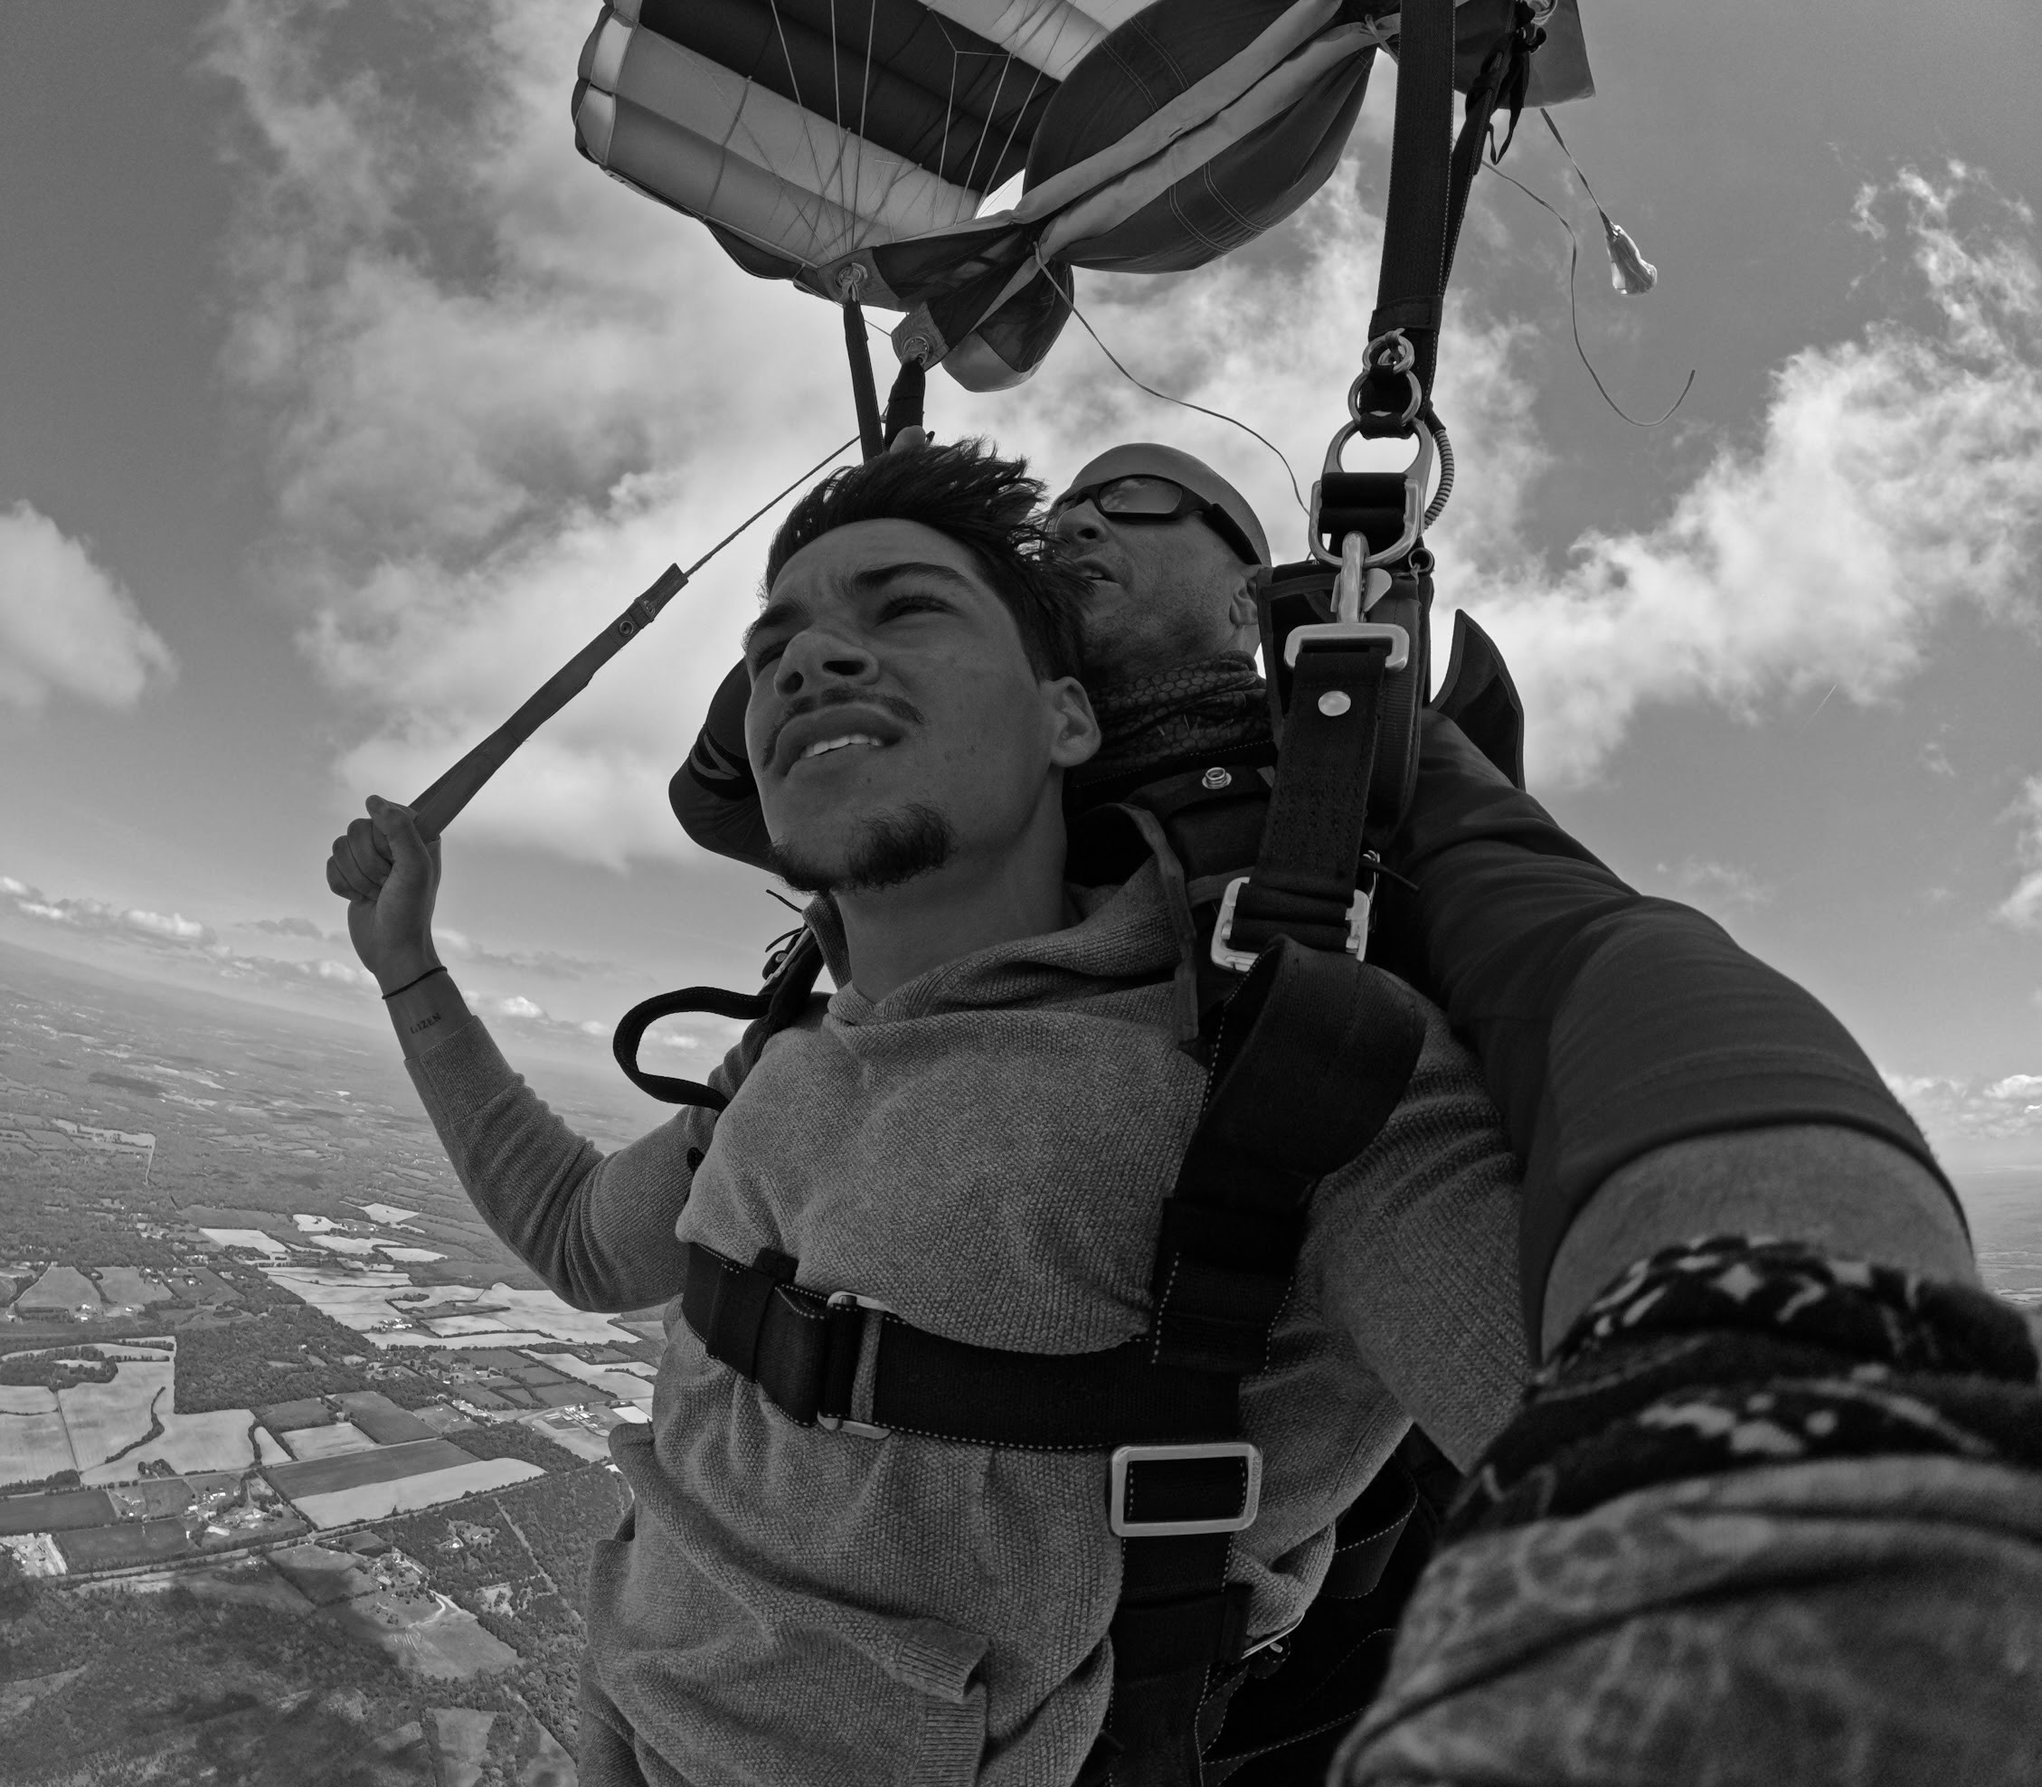
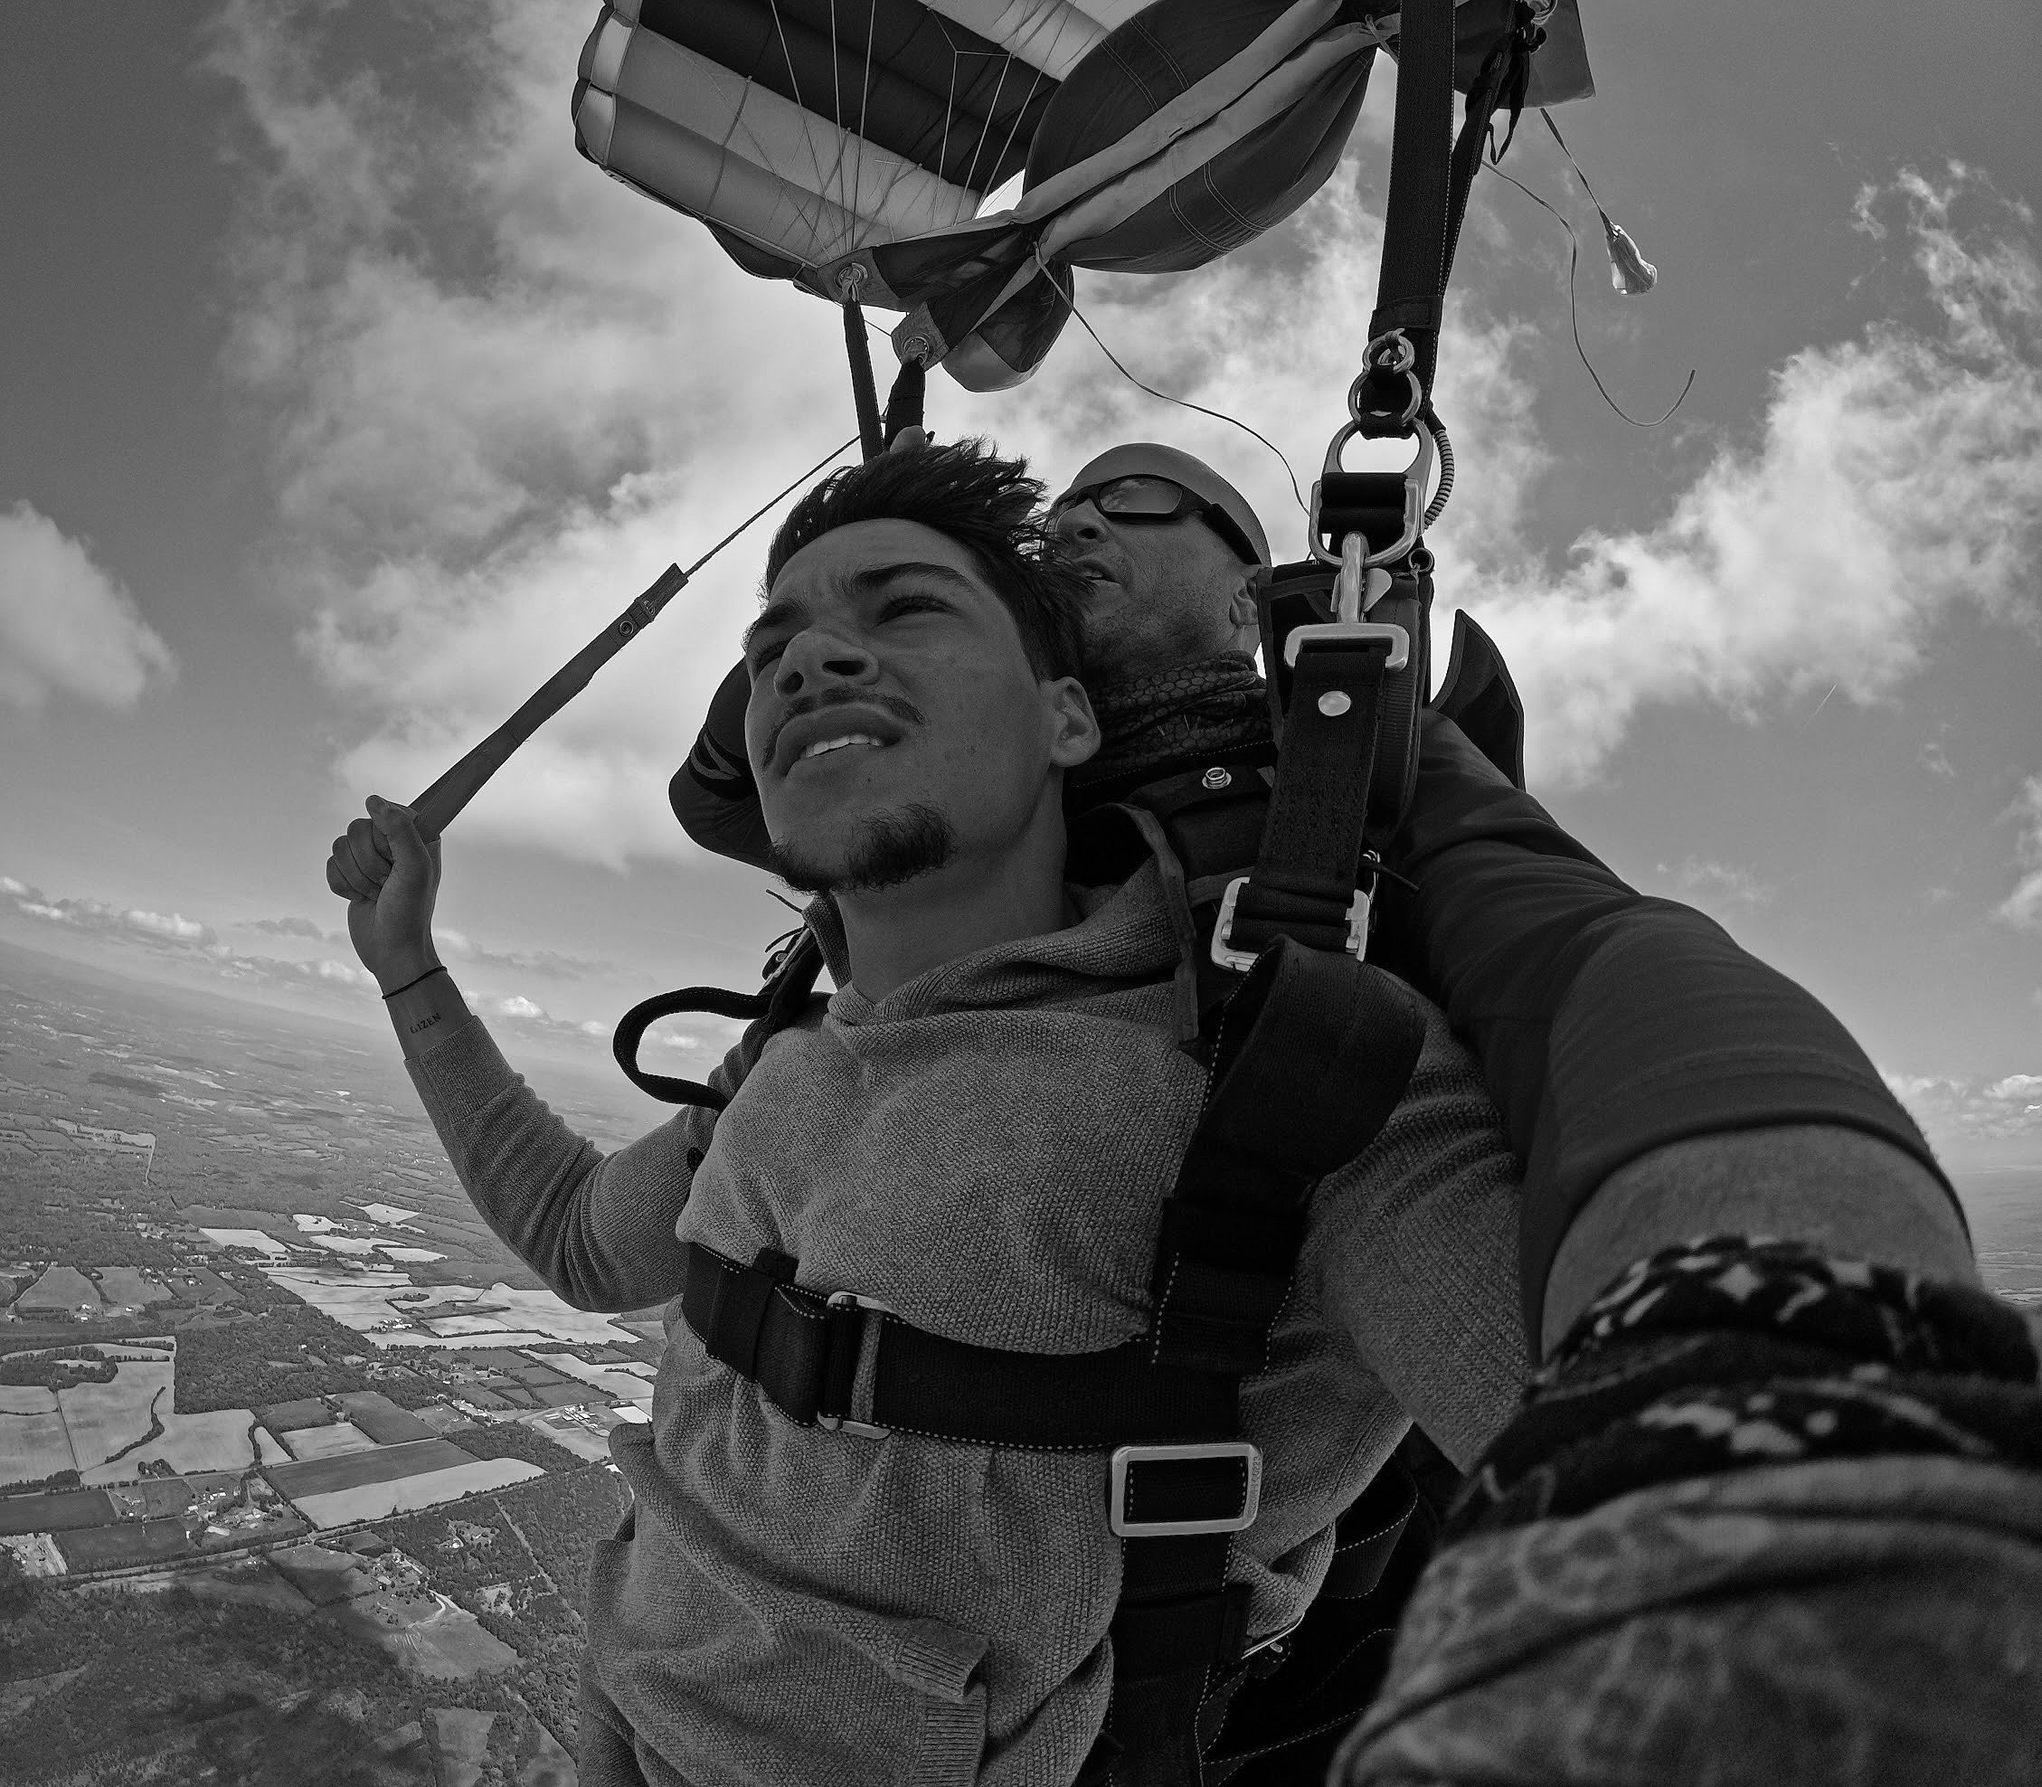
Home page: replace bg with sharper edited photo, center composition

diff --git a/index.html b/index.html
@@ -30,7 +30,7 @@
       width: 100%;
       height: 100%;
       object-fit: cover;
-      object-position: center 30%;
+      object-position: center center;
       filter: grayscale(100%);
       display: block;
     }
